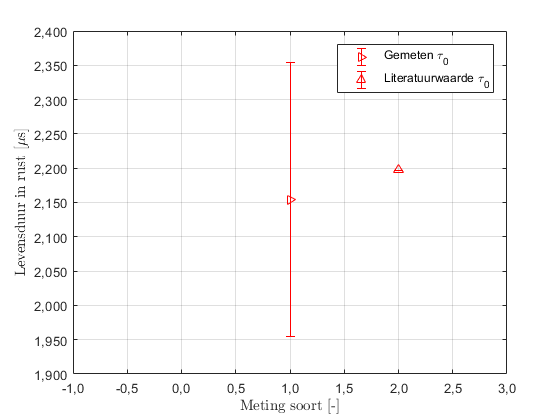
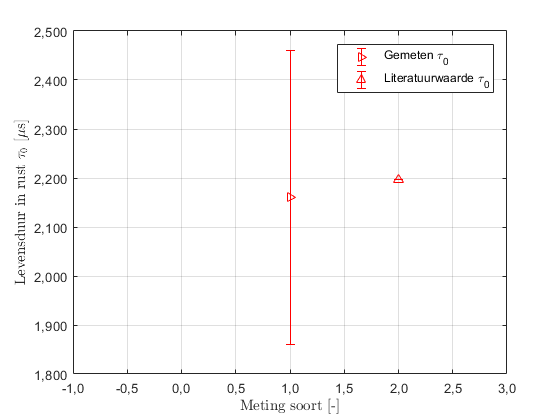
.

diff --git a/Data/VO/frequentie metingen/resultaat.m b/Data/VO/frequentie metingen/resultaat.m
@@ -1,11 +1,11 @@
 sample = importdata('resultaat.txt');
 sample = sample.data;
 
-% meting = sample(:,1);
 meting = sample(:,1);
 aandrijf_spanning = sample(:,2);
 frequentie = sample(:,3);
 gemeten_spanning = sample(:,4);
+weights = sample(:,6);
 
 % Gegegevens voor bepalen gevoeligheid
 massa = 0.949802;
@@ -24,6 +24,11 @@ kracht_heen = kracht(1:11);
 kracht_terug = kracht(12:24);
 gemeten_spanning_heen = gemeten_spanning(1:11);
 gemeten_spanning_terug = gemeten_spanning(12:24);
+wieghts_heen = weights(1:11);
+wieghts_terug = weights(12:24);
+
+figure(1);clf % Geeft fig nmr en cleared hem daarna
+
 % fit_piek1(massa, spanning_piek1);
 
 % fit_heen(kracht_heen, gemeten_spanning_heen);
@@ -33,38 +38,43 @@ gemeten_spanning_terug = gemeten_spanning(12:24);
 
 %-----------------------------Start fit heen
 %% Fit: 'untitled fit 1'.
-[xData, yData] = prepareCurveData( kracht_heen, gemeten_spanning_heen );
+[xData, yData, weights] = prepareCurveData( kracht_heen, gemeten_spanning_heen, wieghts_heen );
 
 % Set up fittype and options.
-ft = fittype( 'poly3' );
+ft = fittype( 'poly1' );
+opts = fitoptions( 'Method', 'LinearLeastSquares' );
+opts.Weights = weights;
 
 % Fit model to data.
-[fitresult, gof] = fit( xData, yData, ft );
+[fitresult, gof] = fit( xData, yData, ft, opts );
 
 % Plot fit with data.
-h = plot( fitresult, xData, yData, 'v' );
+h1 = plot( fitresult, xData, yData ,'v');
 hold on
 %--------------------------------eind fit heen
 % -------------------------------Start fit terug
 %% Fit: 'untitled fit 1'.
-[xData, yData] = prepareCurveData( kracht_terug, gemeten_spanning_terug );
+[xData, yData, weights] = prepareCurveData( kracht_terug, gemeten_spanning_terug, wieghts_terug );
 
 % Set up fittype and options.
-ft = fittype( 'poly3' );
+ft = fittype( 'poly1' );
+opts = fitoptions( 'Method', 'LinearLeastSquares' );
+opts.Weights = weights;
 
 % Fit model to data.
-[fitresult2, gof] = fit( xData, yData, ft );
+[fitresult, gof] = fit( xData, yData, ft, opts );
 
 % Plot fit with data.
-h2 = plot( fitresult2, xData, yData, '^')
+h2 = plot(fitresult, xData, yData,'^');
 %--------------------------------eind fit terug
 hold on
 
+ylim([0 17E-4])
 % labels & legend zelf aanpassen in createFit
-legend_fit_laaghoog = 'Fit oplopend: ax^3+bx^2+cx+d      a=5,109\times10^{-3}     b=-1,493\times10^{-1}     c=1,452   d=-4,689    R^2=0,9971'
-legend_fit_hooglaag = 'Fit aflopend: ax^3+bx^2+cx+d      a=1,880\times10^{-2}     b=-5,713\times10^{-1}     c=5,786     d=-19,53   R^2=0,9790'
-legend('Meetwaarden oplopend', legend_fit_laaghoog, 'Meetwaarden aflopend',legend_fit_hooglaag, 'Interpreter', 'latex', 'Location' ,'NorthWest')
-% legend('Meetwaarden oplopend','Fit oplopend','Meetwaarden aflopend', 'Fit aflopend', 'Interpreter', 'latex', 'Location' ,'NorthWest')
+legend_fit_laaghoog = 'Fit oplopend: ax+b     a=3,294\times10^{-3}     b=-3,402\times10^{-2}     R^2=0,9973'
+legend_fit_hooglaag = 'Fit aflopend: ax+b      a=8,265\times10^{-3}     b=-8,581\times10^{-2}     R^2=0,9521'
+% legend('Meetwaarden oplopend', legend_fit_laaghoog, 'Meetwaarden aflopend',legend_fit_hooglaag, 'Interpreter', 'latex', 'Location' ,'NorthWest')
+legend('Meetwaarden oplopend','Fit oplopend','Meetwaarden aflopend', 'Fit aflopend', 'Interpreter', 'latex', 'Location' ,'NorthWest')
 
 % xlim([0 0.7])
 % Correcte significantie maken voor plot 1

diff --git a/Data/VO/frequentie metingen/fit_terug.m b/Data/VO/frequentie metingen/fit_terug.m
@@ -1,32 +1,35 @@
-function [fitresult, gof] = createFit(kracht_terug, gemeten_spanning_terug)
-%CREATEFIT(KRACHT_TERUG,GEMETEN_SPANNING_TERUG)
+function [fitresult, gof] = createFit(kracht_terug, gemeten_spanning_terug, wieghts_terug)
+%CREATEFIT(KRACHT_TERUG,GEMETEN_SPANNING_TERUG,WIEGHTS_TERUG)
 %  Create a fit.
 %
 %  Data for 'untitled fit 1' fit:
 %      X Input : kracht_terug
 %      Y Output: gemeten_spanning_terug
+%      Weights : wieghts_terug
 %  Output:
 %      fitresult : a fit object representing the fit.
 %      gof : structure with goodness-of fit info.
 %
 %  See also FIT, CFIT, SFIT.
 
-%  Auto-generated by MATLAB on 11-Jan-2018 16:44:11
+%  Auto-generated by MATLAB on 12-Jan-2018 10:42:01
 
 
 %% Fit: 'untitled fit 1'.
-[xData, yData] = prepareCurveData( kracht_terug, gemeten_spanning_terug );
+[xData, yData, weights] = prepareCurveData( kracht_terug, gemeten_spanning_terug, wieghts_terug );
 
 % Set up fittype and options.
-ft = fittype( 'poly3' );
+ft = fittype( 'poly1' );
+opts = fitoptions( 'Method', 'LinearLeastSquares' );
+opts.Weights = weights;
 
 % Fit model to data.
-[fitresult, gof] = fit( xData, yData, ft );
+[fitresult, gof] = fit( xData, yData, ft, opts );
 
 % Plot fit with data.
 figure( 'Name', 'untitled fit 1' );
 h = plot( fitresult, xData, yData );
-legend( h, 'gemeten_spanning_terug vs. kracht_terug', 'untitled fit 1', 'Location', 'NorthEast' );
+legend( h, 'gemeten_spanning_terug vs. kracht_terug with wieghts_terug', 'untitled fit 1', 'Location', 'NorthEast' );
 % Label axes
 xlabel kracht_terug
 ylabel gemeten_spanning_terug

diff --git a/Data/VO/frequentie metingen/fit_heen.m b/Data/VO/frequentie metingen/fit_heen.m
@@ -1,32 +1,35 @@
-function [fitresult, gof] = createFit(kracht_heen, gemeten_spanning_heen)
-%CREATEFIT(KRACHT_HEEN,GEMETEN_SPANNING_HEEN)
+function [fitresult, gof] = createFit(kracht_heen, gemeten_spanning_heen, wieghts_heen)
+%CREATEFIT(KRACHT_HEEN,GEMETEN_SPANNING_HEEN,WIEGHTS_HEEN)
 %  Create a fit.
 %
 %  Data for 'untitled fit 1' fit:
 %      X Input : kracht_heen
 %      Y Output: gemeten_spanning_heen
+%      Weights : wieghts_heen
 %  Output:
 %      fitresult : a fit object representing the fit.
 %      gof : structure with goodness-of fit info.
 %
 %  See also FIT, CFIT, SFIT.
 
-%  Auto-generated by MATLAB on 11-Jan-2018 16:44:22
+%  Auto-generated by MATLAB on 12-Jan-2018 10:29:48
 
 
 %% Fit: 'untitled fit 1'.
-[xData, yData] = prepareCurveData( kracht_heen, gemeten_spanning_heen );
+[xData, yData, weights] = prepareCurveData( kracht_heen, gemeten_spanning_heen, wieghts_heen );
 
 % Set up fittype and options.
-ft = fittype( 'poly3' );
+ft = fittype( 'poly1' );
+opts = fitoptions( 'Method', 'LinearLeastSquares' );
+opts.Weights = weights;
 
 % Fit model to data.
-[fitresult, gof] = fit( xData, yData, ft );
+[fitresult, gof] = fit( xData, yData, ft, opts );
 
 % Plot fit with data.
 figure( 'Name', 'untitled fit 1' );
 h = plot( fitresult, xData, yData );
-legend( h, 'gemeten_spanning_heen vs. kracht_heen', 'untitled fit 1', 'Location', 'NorthEast' );
+legend( h, 'gemeten_spanning_heen vs. kracht_heen with wieghts_heen', 'untitled fit 1', 'Location', 'NorthEast' );
 % Label axes
 xlabel kracht_heen
 ylabel gemeten_spanning_heen

diff --git a/Data/MuonLab/eindresultaat.m b/Data/MuonLab/eindresultaat.m
@@ -1,7 +1,7 @@
 sample = ['Accelerometer','Luchtdruk']
 sample_val = [1, 2];
-hoogte = [2.154, 2.1969811];
-onzekerheid = [0.2, 0.0000022];
+hoogte = [2.161, 2.1969811];
+onzekerheid = [0.3, 0.0000022];
 
 % labels & legend zelf aanpassen in createFit
 
@@ -15,7 +15,7 @@ legend('Gemeten \tau_0', 'Literatuurwaarde \tau_0', 'Interpreter', 'latex', 'Loc
 
 
 xlim([-1 3])
-ylim([1.9 2.4])
+% ylim([1.9 2.4])
 
 % Correcte significantie maken voor plot 1
 xtickformat('%.1f')
@@ -33,7 +33,7 @@ set(gca, 'YTickLabel', nieuw_y)
 %figure( 'Name', 'untitled fit 1', 'Location', 'NorthEast');
 
 % Label axes
-ylabel('Levensduur in rust [$\mu$s]', 'Interpreter', 'latex')
+ylabel('Levensduur in rust $\tau_0$ [$\mu$s]', 'Interpreter', 'latex')
 xlabel('Meting soort [-]', 'Interpreter', 'latex')
 grid on
 
